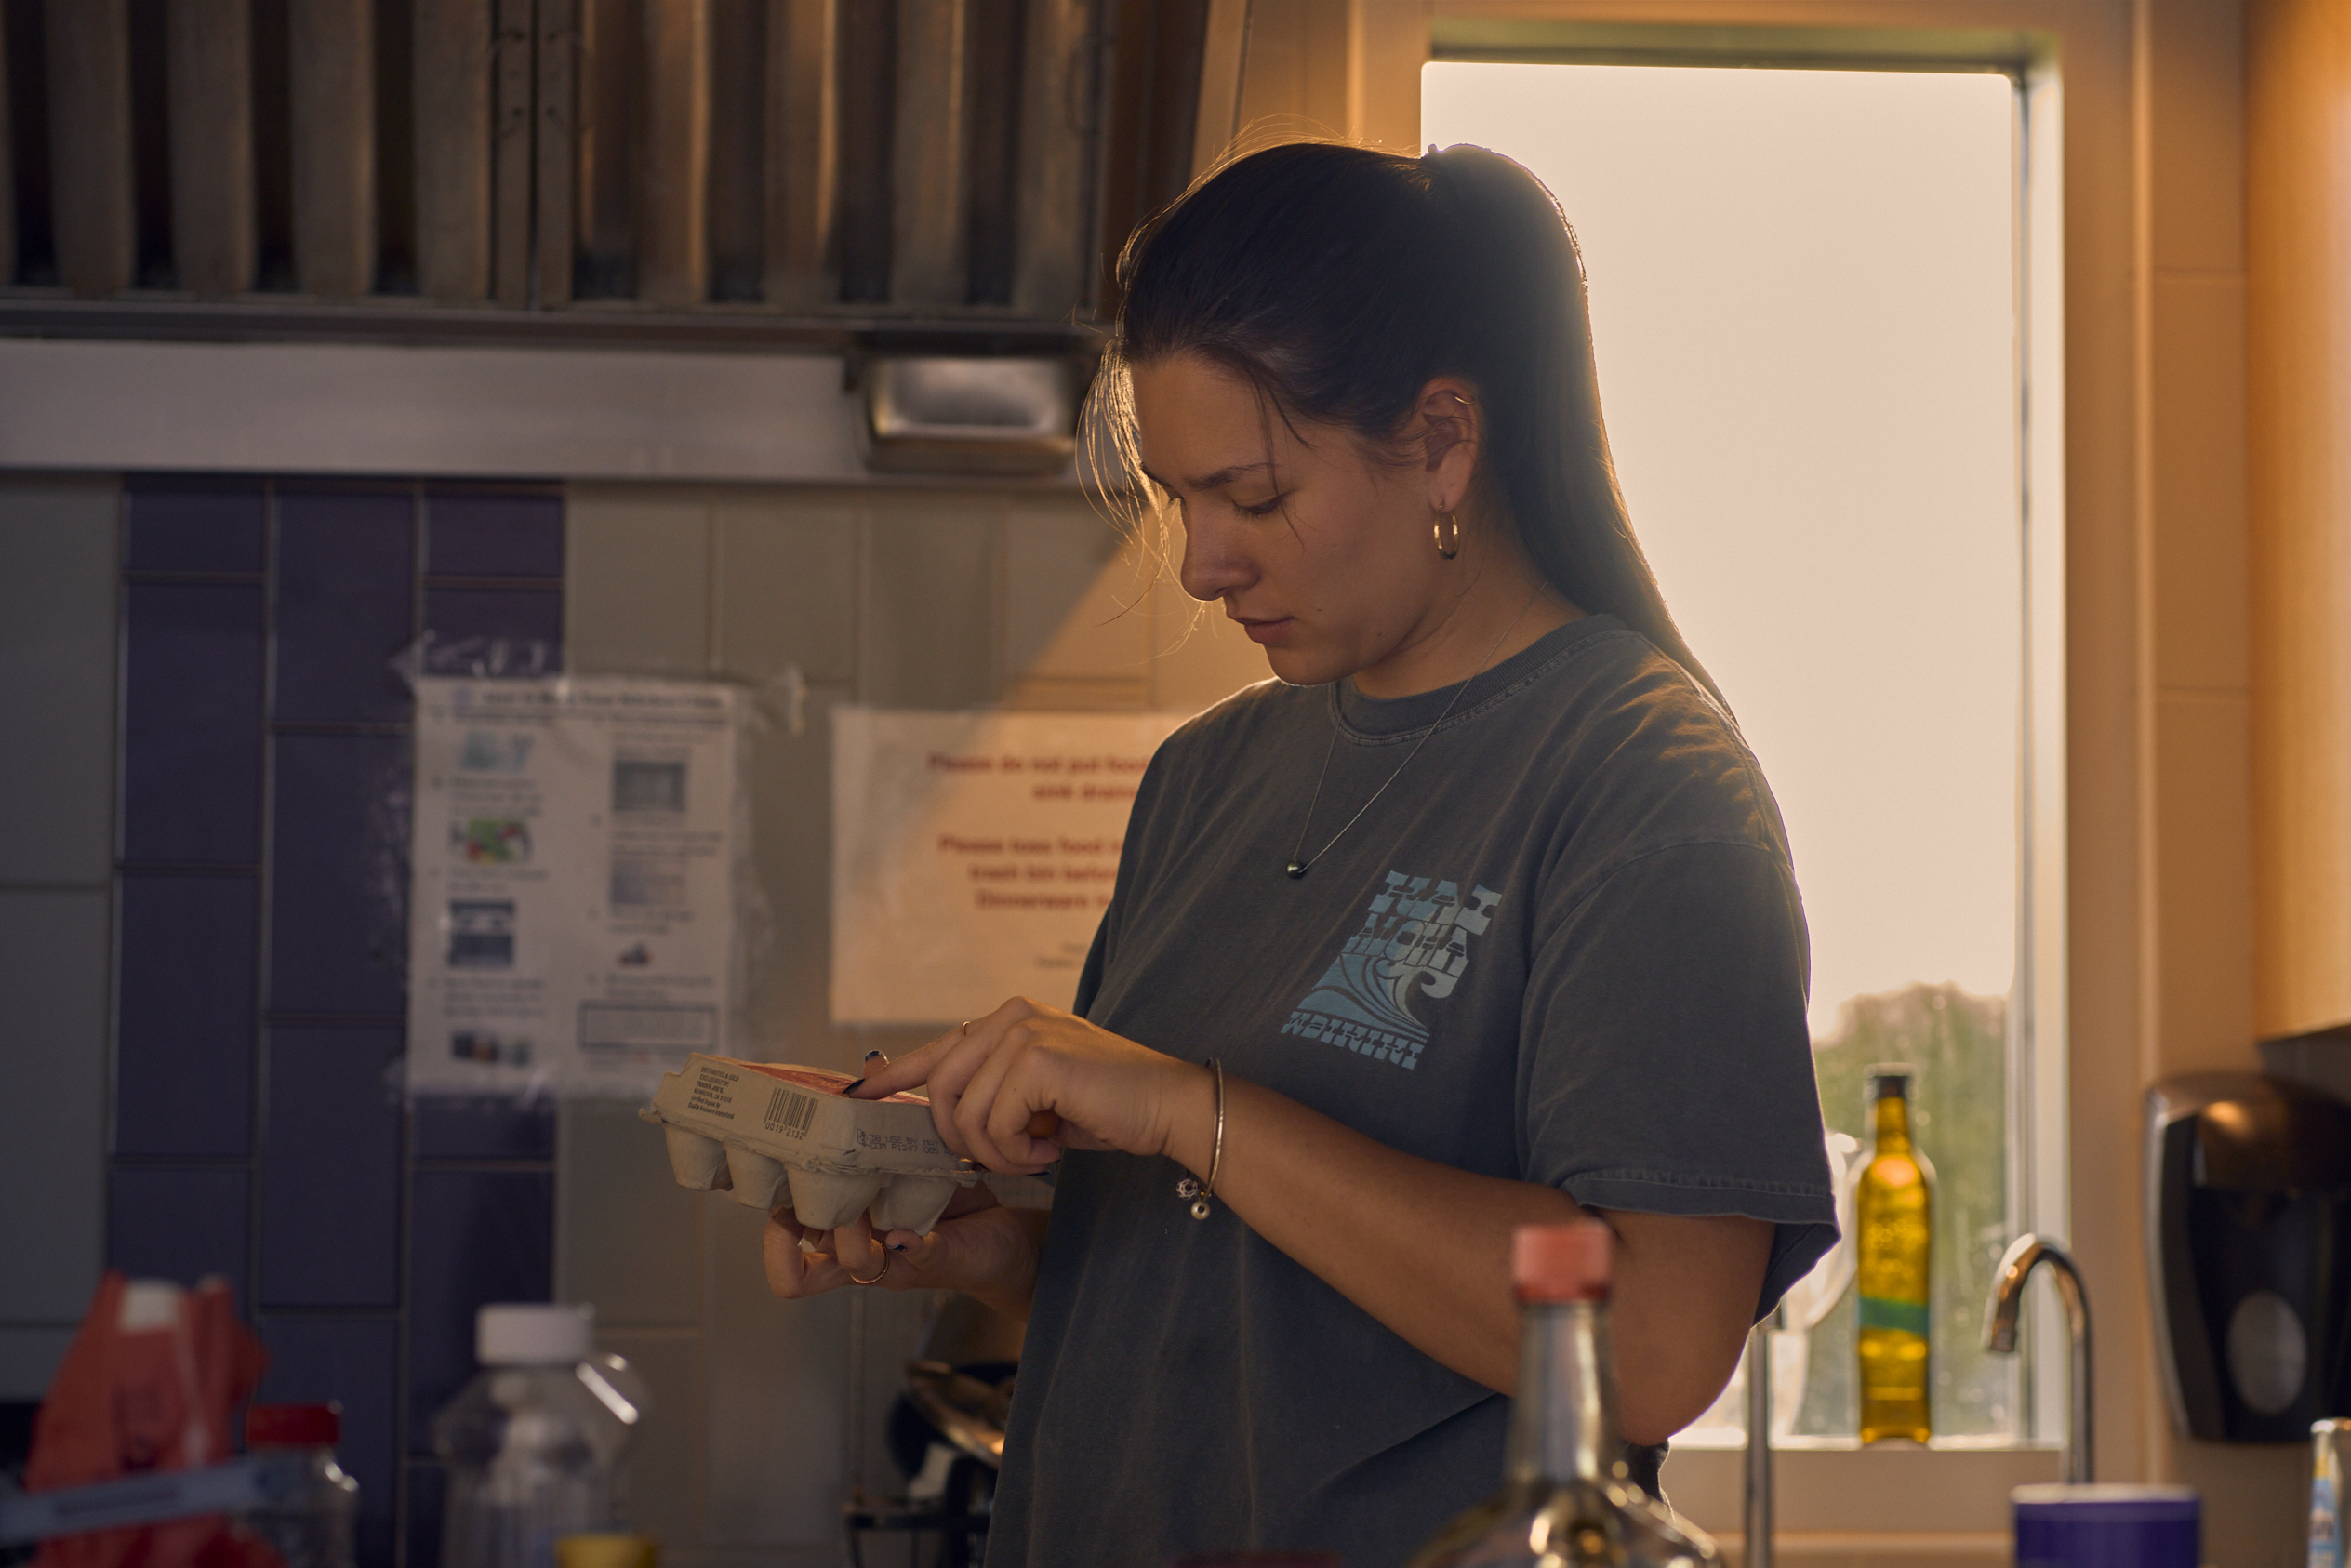
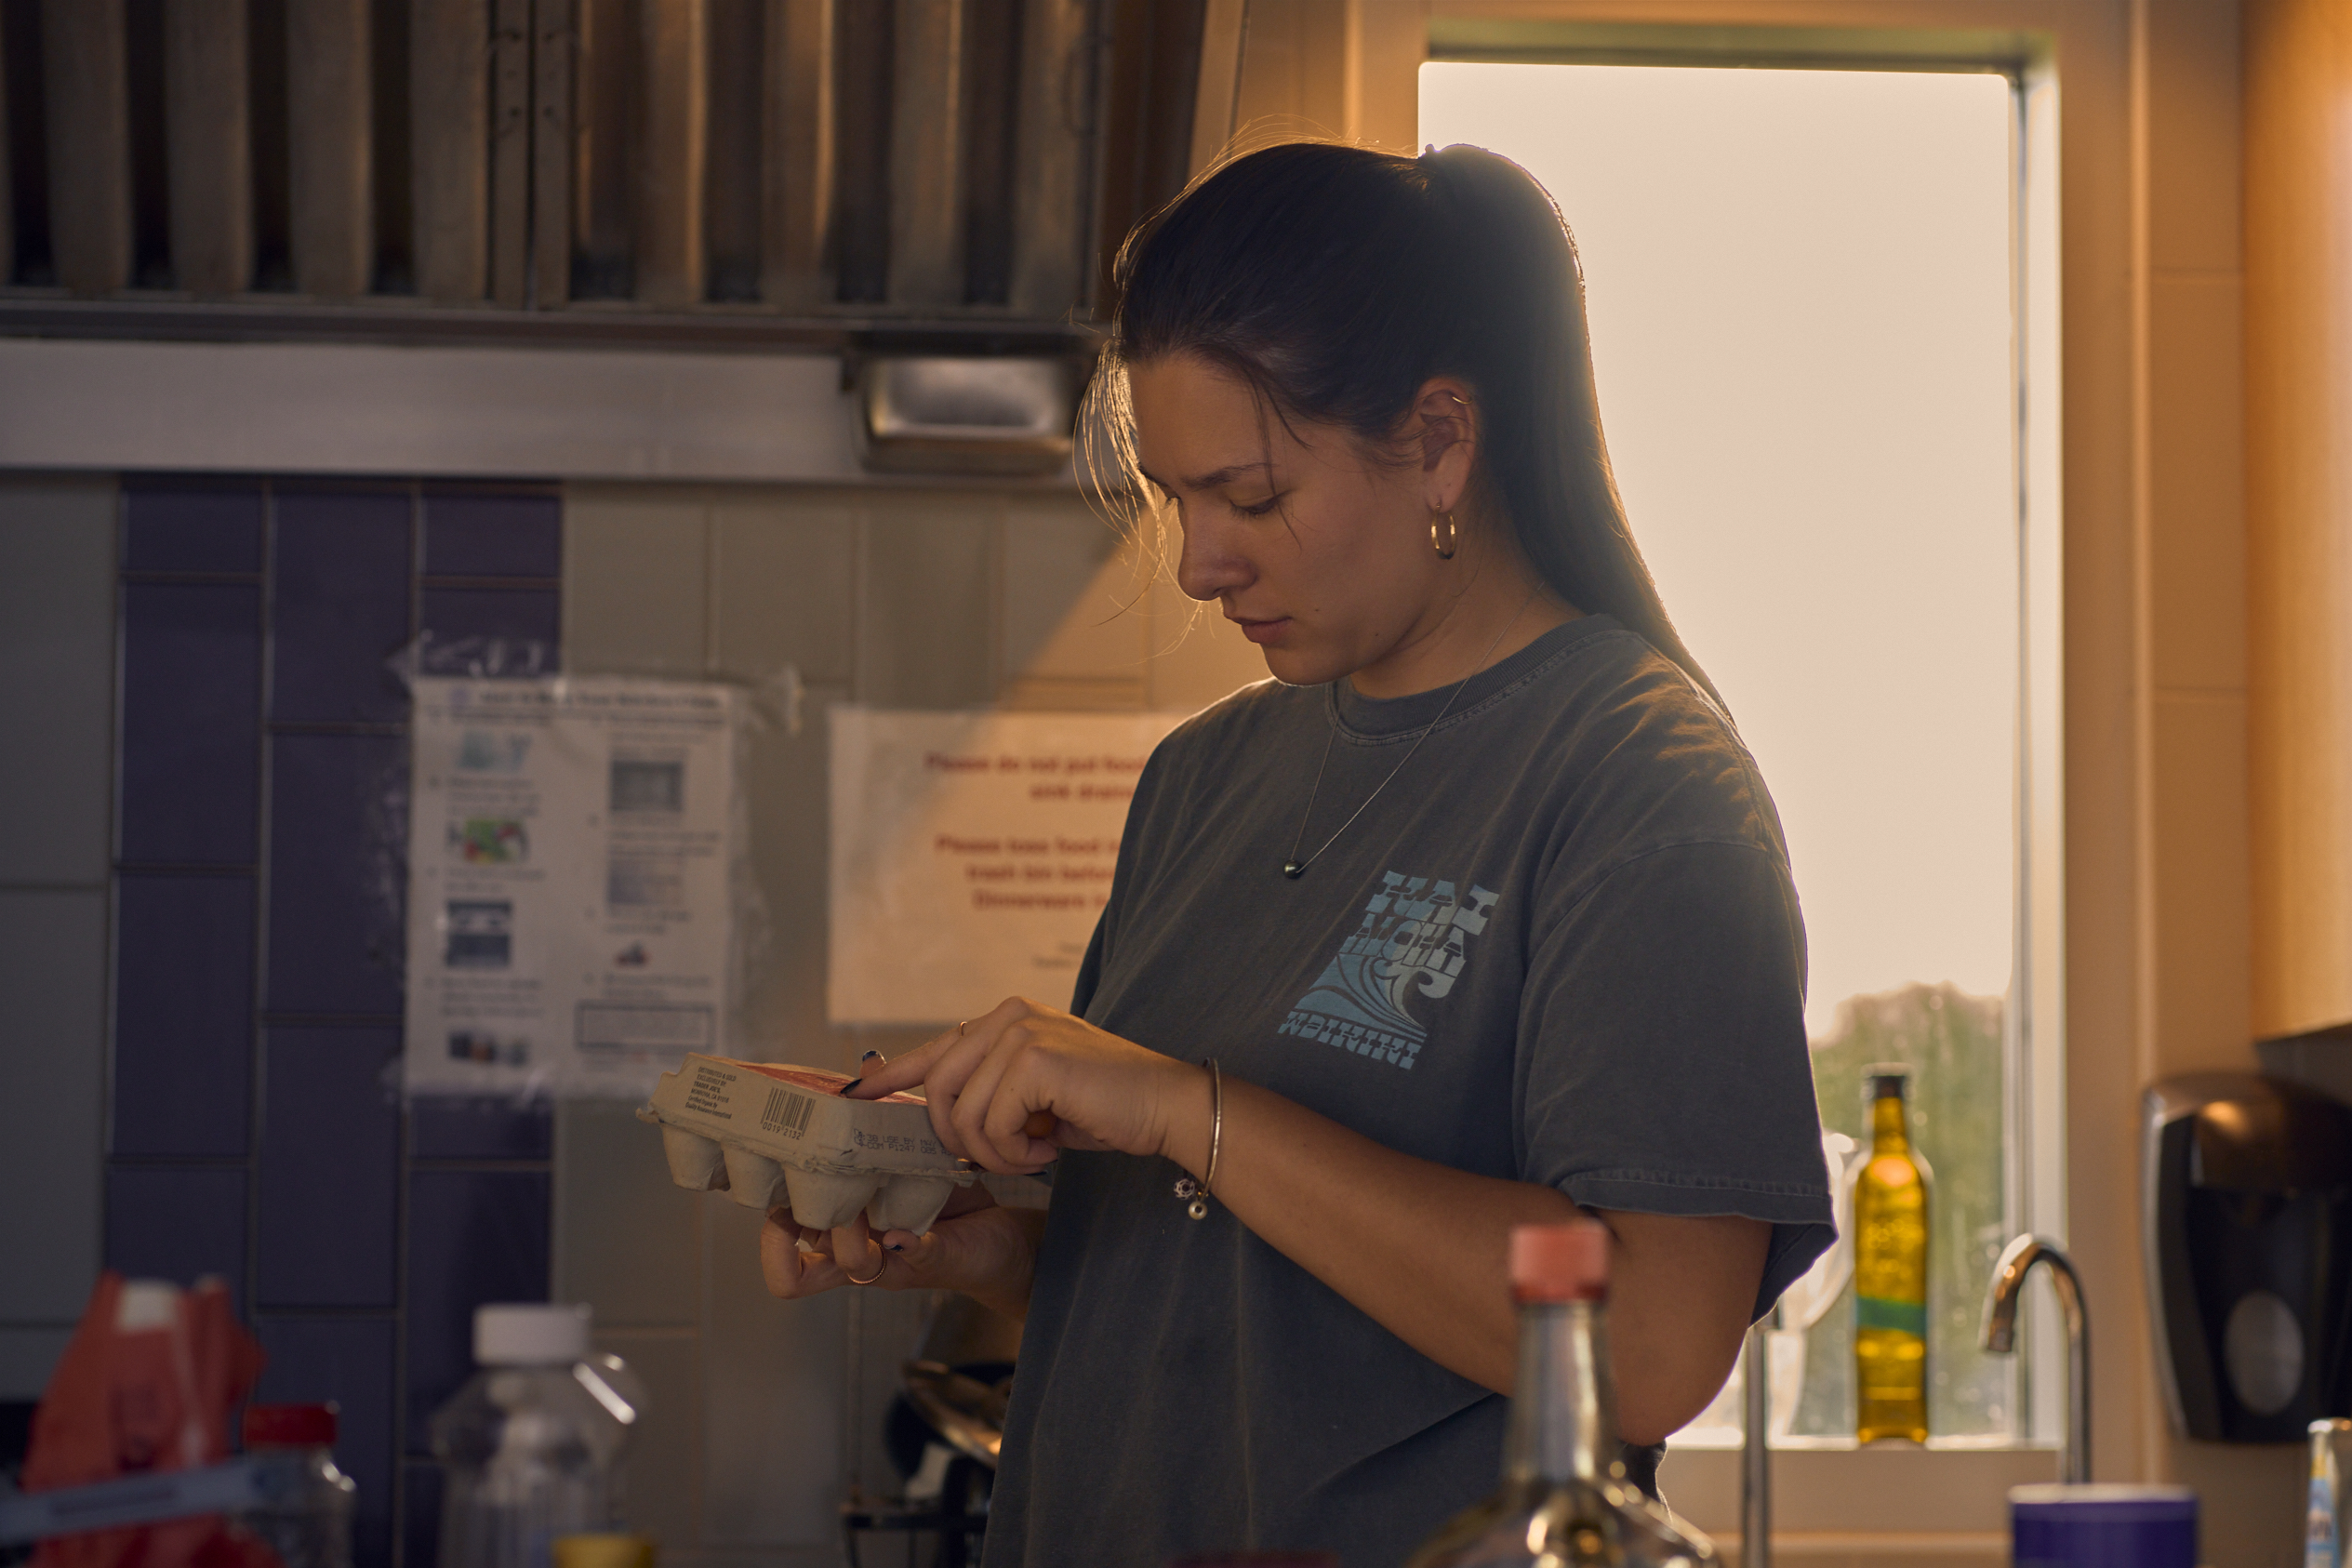
portrait fix?

diff --git a/portraits.html b/portraits.html
@@ -81,7 +81,7 @@
         </div>
 
         <div class="gallery-column">
-          <img src="images/portrait12mobile.jpg" alt="Portrait photography by Jason Yeh" />
+          <img src="images/portrait12.jpg" alt="Portrait photography by Jason Yeh" />
           <img src="images/portrait31.jpg" alt="Portrait photography by Jason Yeh" />
           <img src="images/portrait32.jpg" alt="Portrait photography by Jason Yeh" />
           <img src="images/portrait42.jpg" alt="Portrait photography by Jason Yeh" />